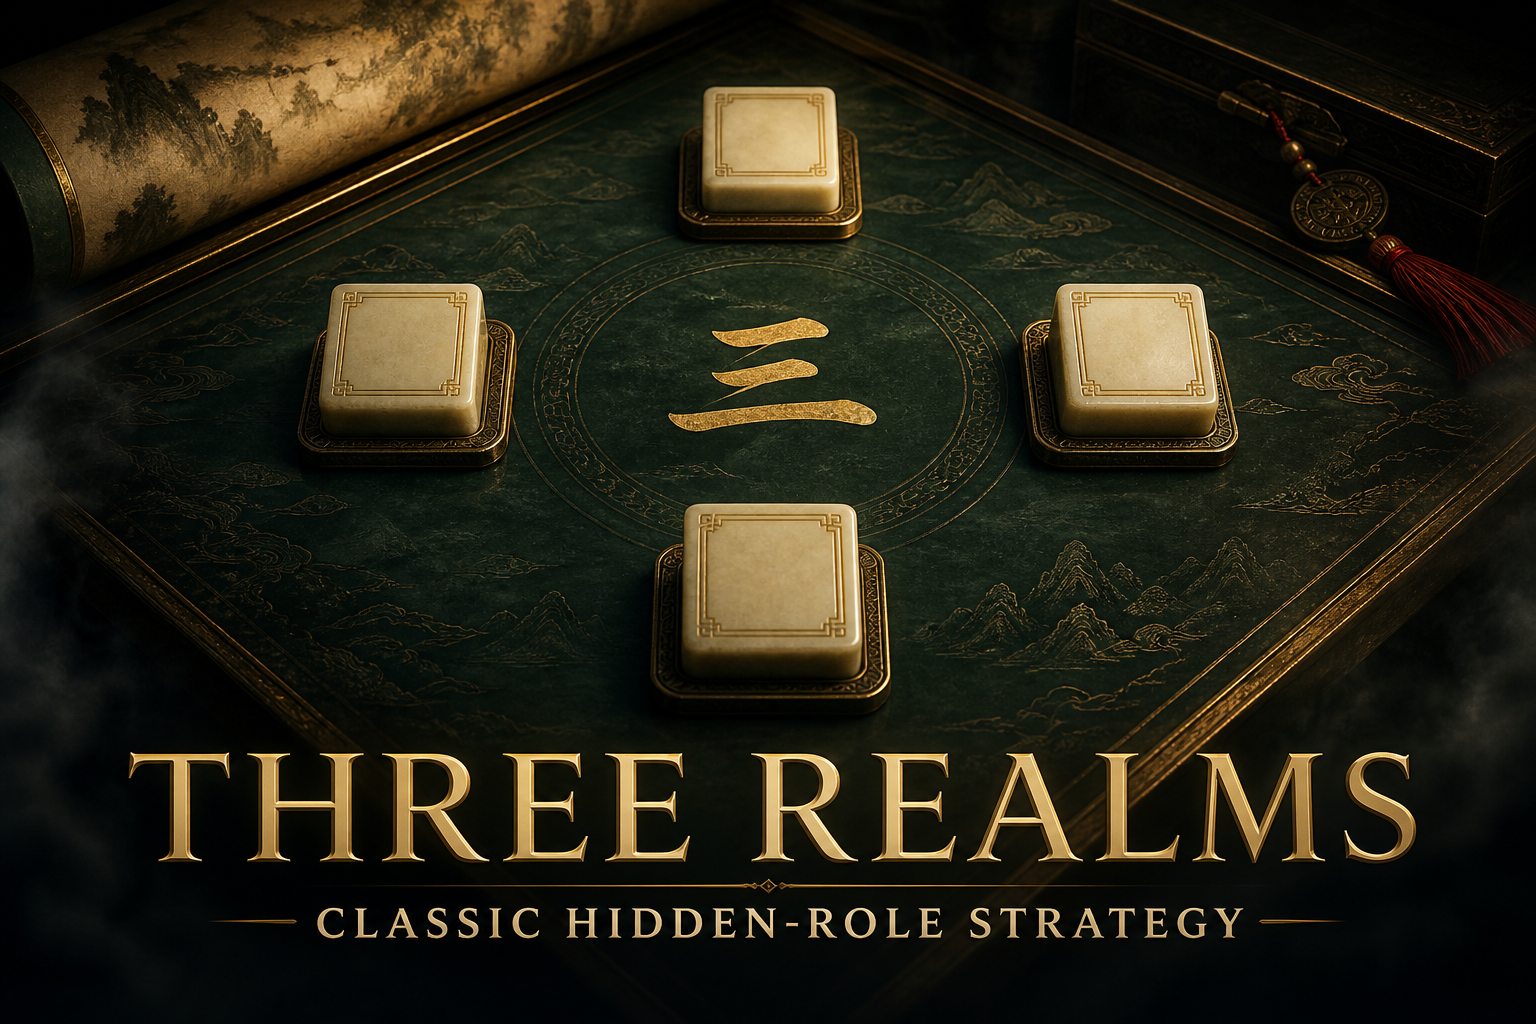
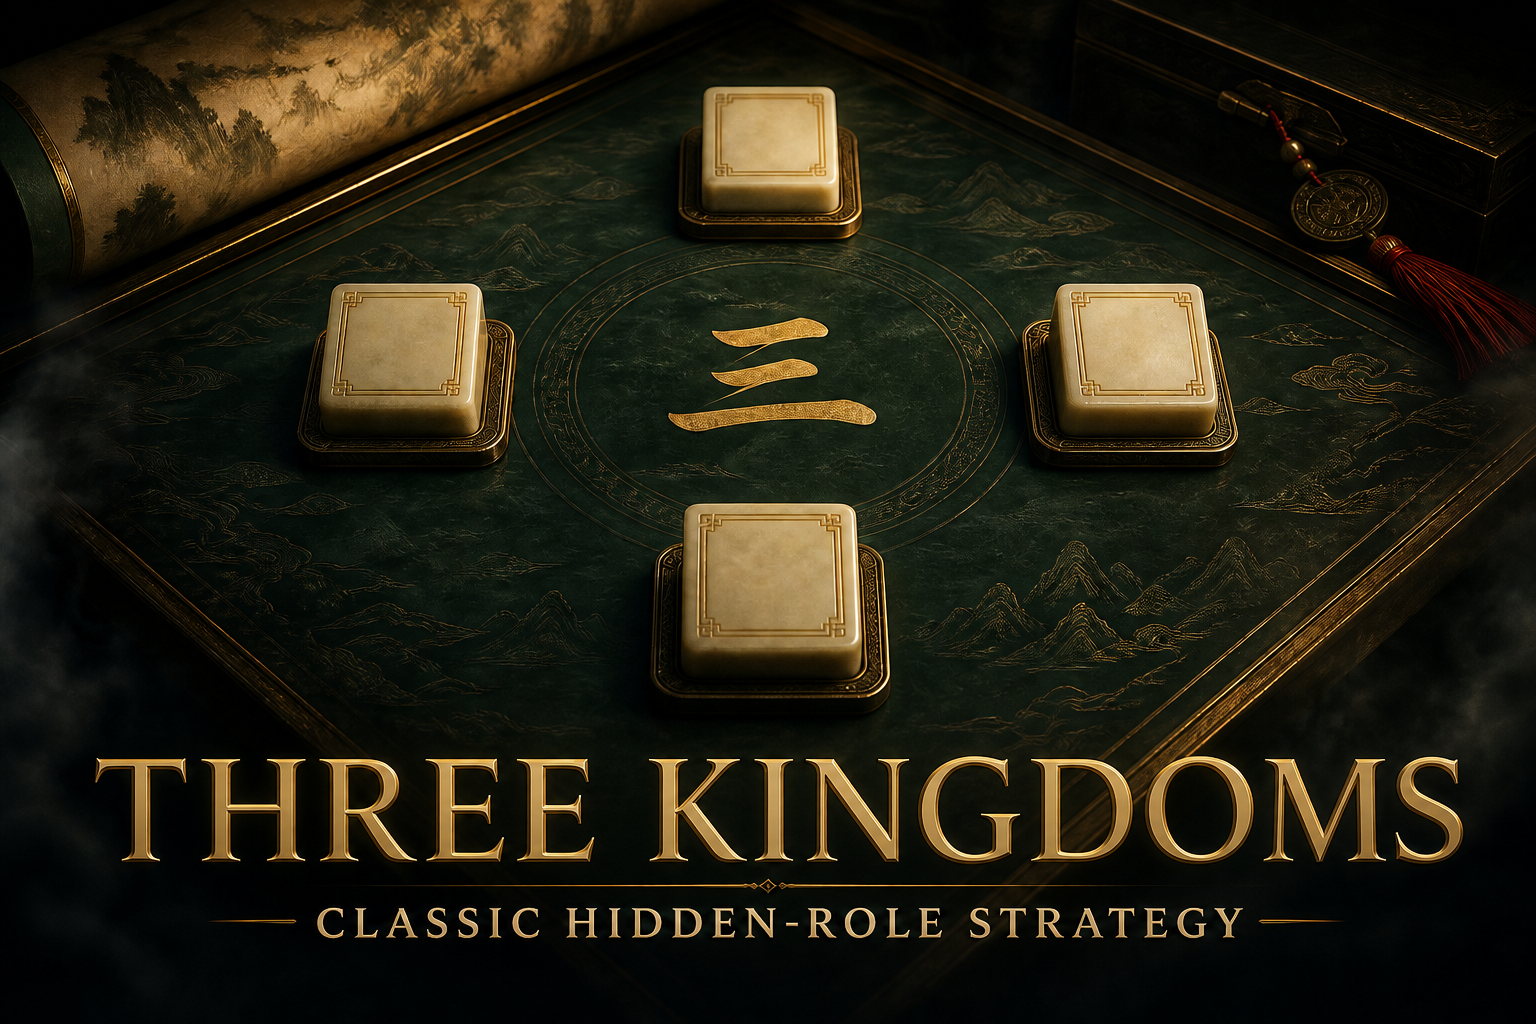
Rename game to Three Kingdoms

diff --git a/app/page.tsx b/app/page.tsx
@@ -83,12 +83,12 @@ export default function Home() {
           <small className="privacy-note">Your secret role and player key stay private on this device.</small>
         </div>
       </section>
-      <footer className="landing-foot"><span>THREE REALMS</span><span>Original English adaptation · Classic social strategy</span></footer>
+      <footer className="landing-foot"><span>THREE KINGDOMS</span><span>Original English adaptation · Classic social strategy</span></footer>
     </main>
   );
 }
 
-function Brand() { return <div className="brand"><span className="brand-mark">三</span><div><strong>Three Realms</strong><small>Classic card game</small></div></div>; }
+function Brand() { return <div className="brand"><span className="brand-mark">三</span><div><strong>Three Kingdoms</strong><small>Classic card game</small></div></div>; }
 function Role({ title, glyph }: { title: string; glyph: string }) { return <div className="mini-role"><b>{glyph}</b><span>{title}</span></div>; }
 
 function WaitingRoom({ room, busy, error, onStart, onLeave }: { room: Room; busy: boolean; error: string; onStart: () => void; onLeave: () => void }) {

diff --git a/app/layout.tsx b/app/layout.tsx
@@ -13,17 +13,17 @@ const geistMono = Geist_Mono({
 });
 
 export const metadata: Metadata = {
-  title: "Three Realms — Classic Hidden-Role Card Game",
+  title: "Three Kingdoms — Classic Hidden-Role Card Game",
   description: "A private online strategy card game for friends, inspired by the Three Kingdoms era.",
   metadataBase: new URL("https://three-realms-table.dai-jinge.chatgpt.site"),
   openGraph: {
-    title: "Three Realms",
+    title: "Three Kingdoms",
     description: "Gather 4–8 friends for a classic hidden-role strategy game.",
-    images: [{ url: "/og.png", width: 1536, height: 1024, alt: "Three Realms game table" }],
+    images: [{ url: "/og.png", width: 1536, height: 1024, alt: "Three Kingdoms game table" }],
   },
   twitter: {
     card: "summary_large_image",
-    title: "Three Realms",
+    title: "Three Kingdoms",
     description: "Gather 4–8 friends for a classic hidden-role strategy game.",
     images: ["/og.png"],
   },
